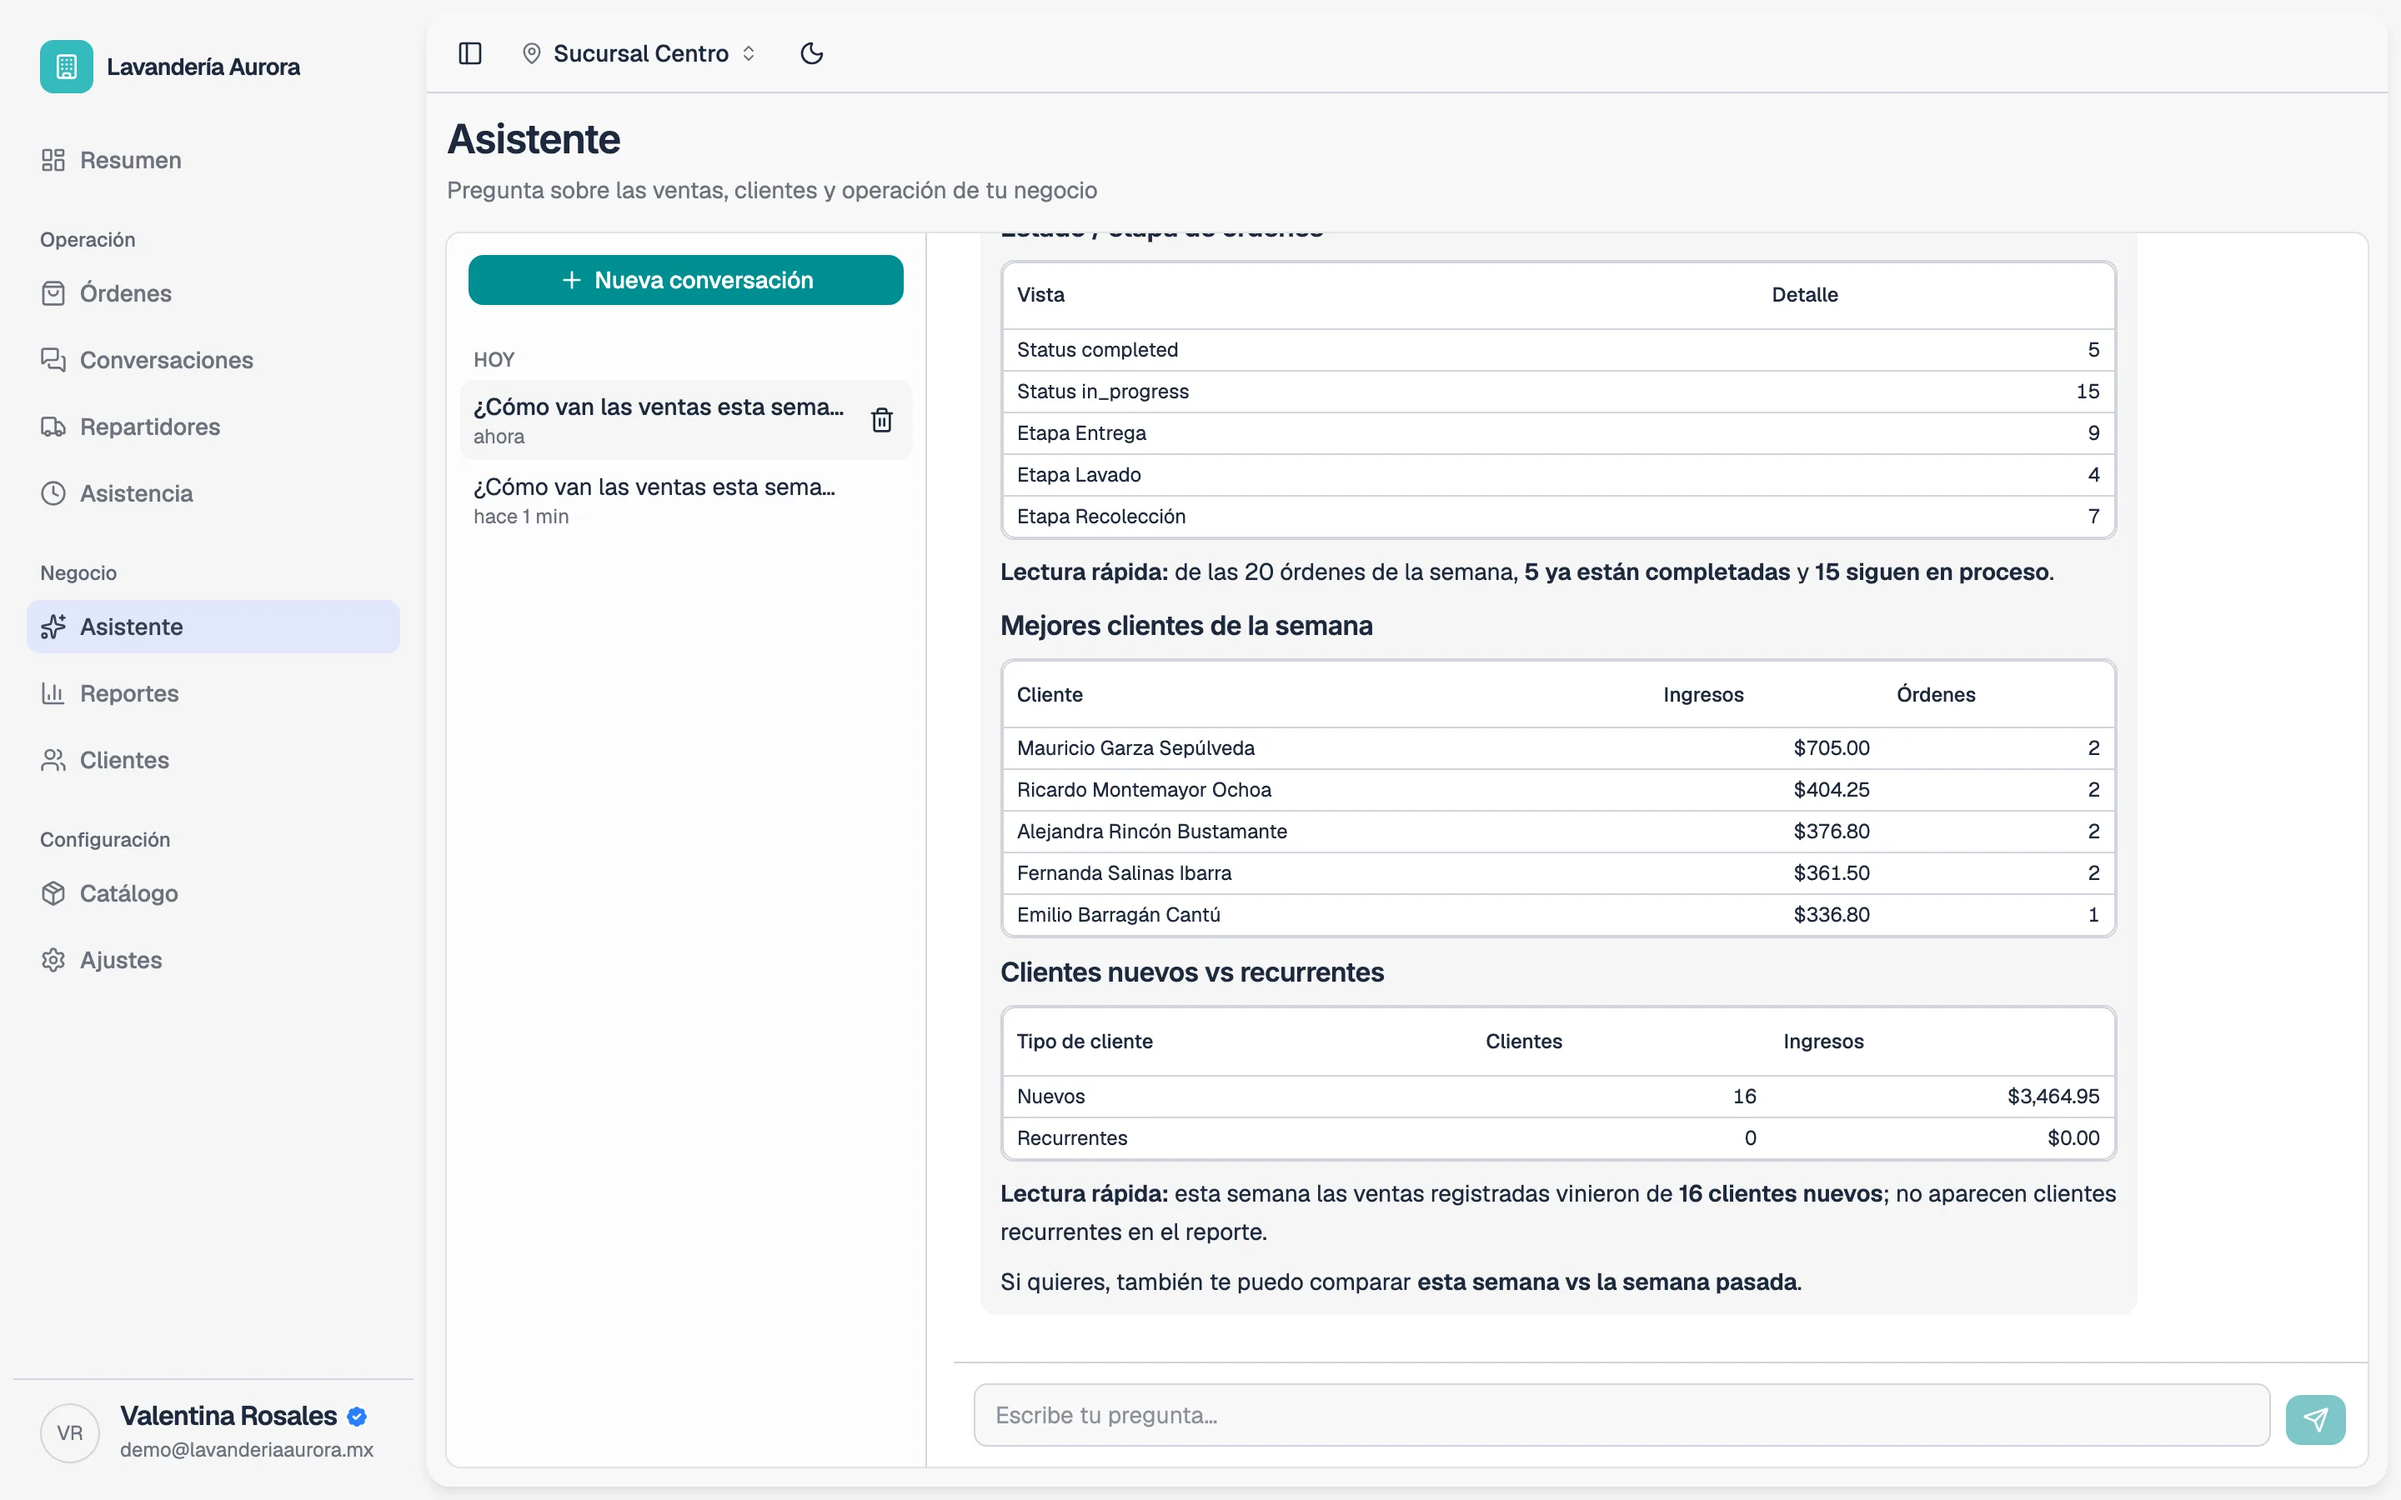
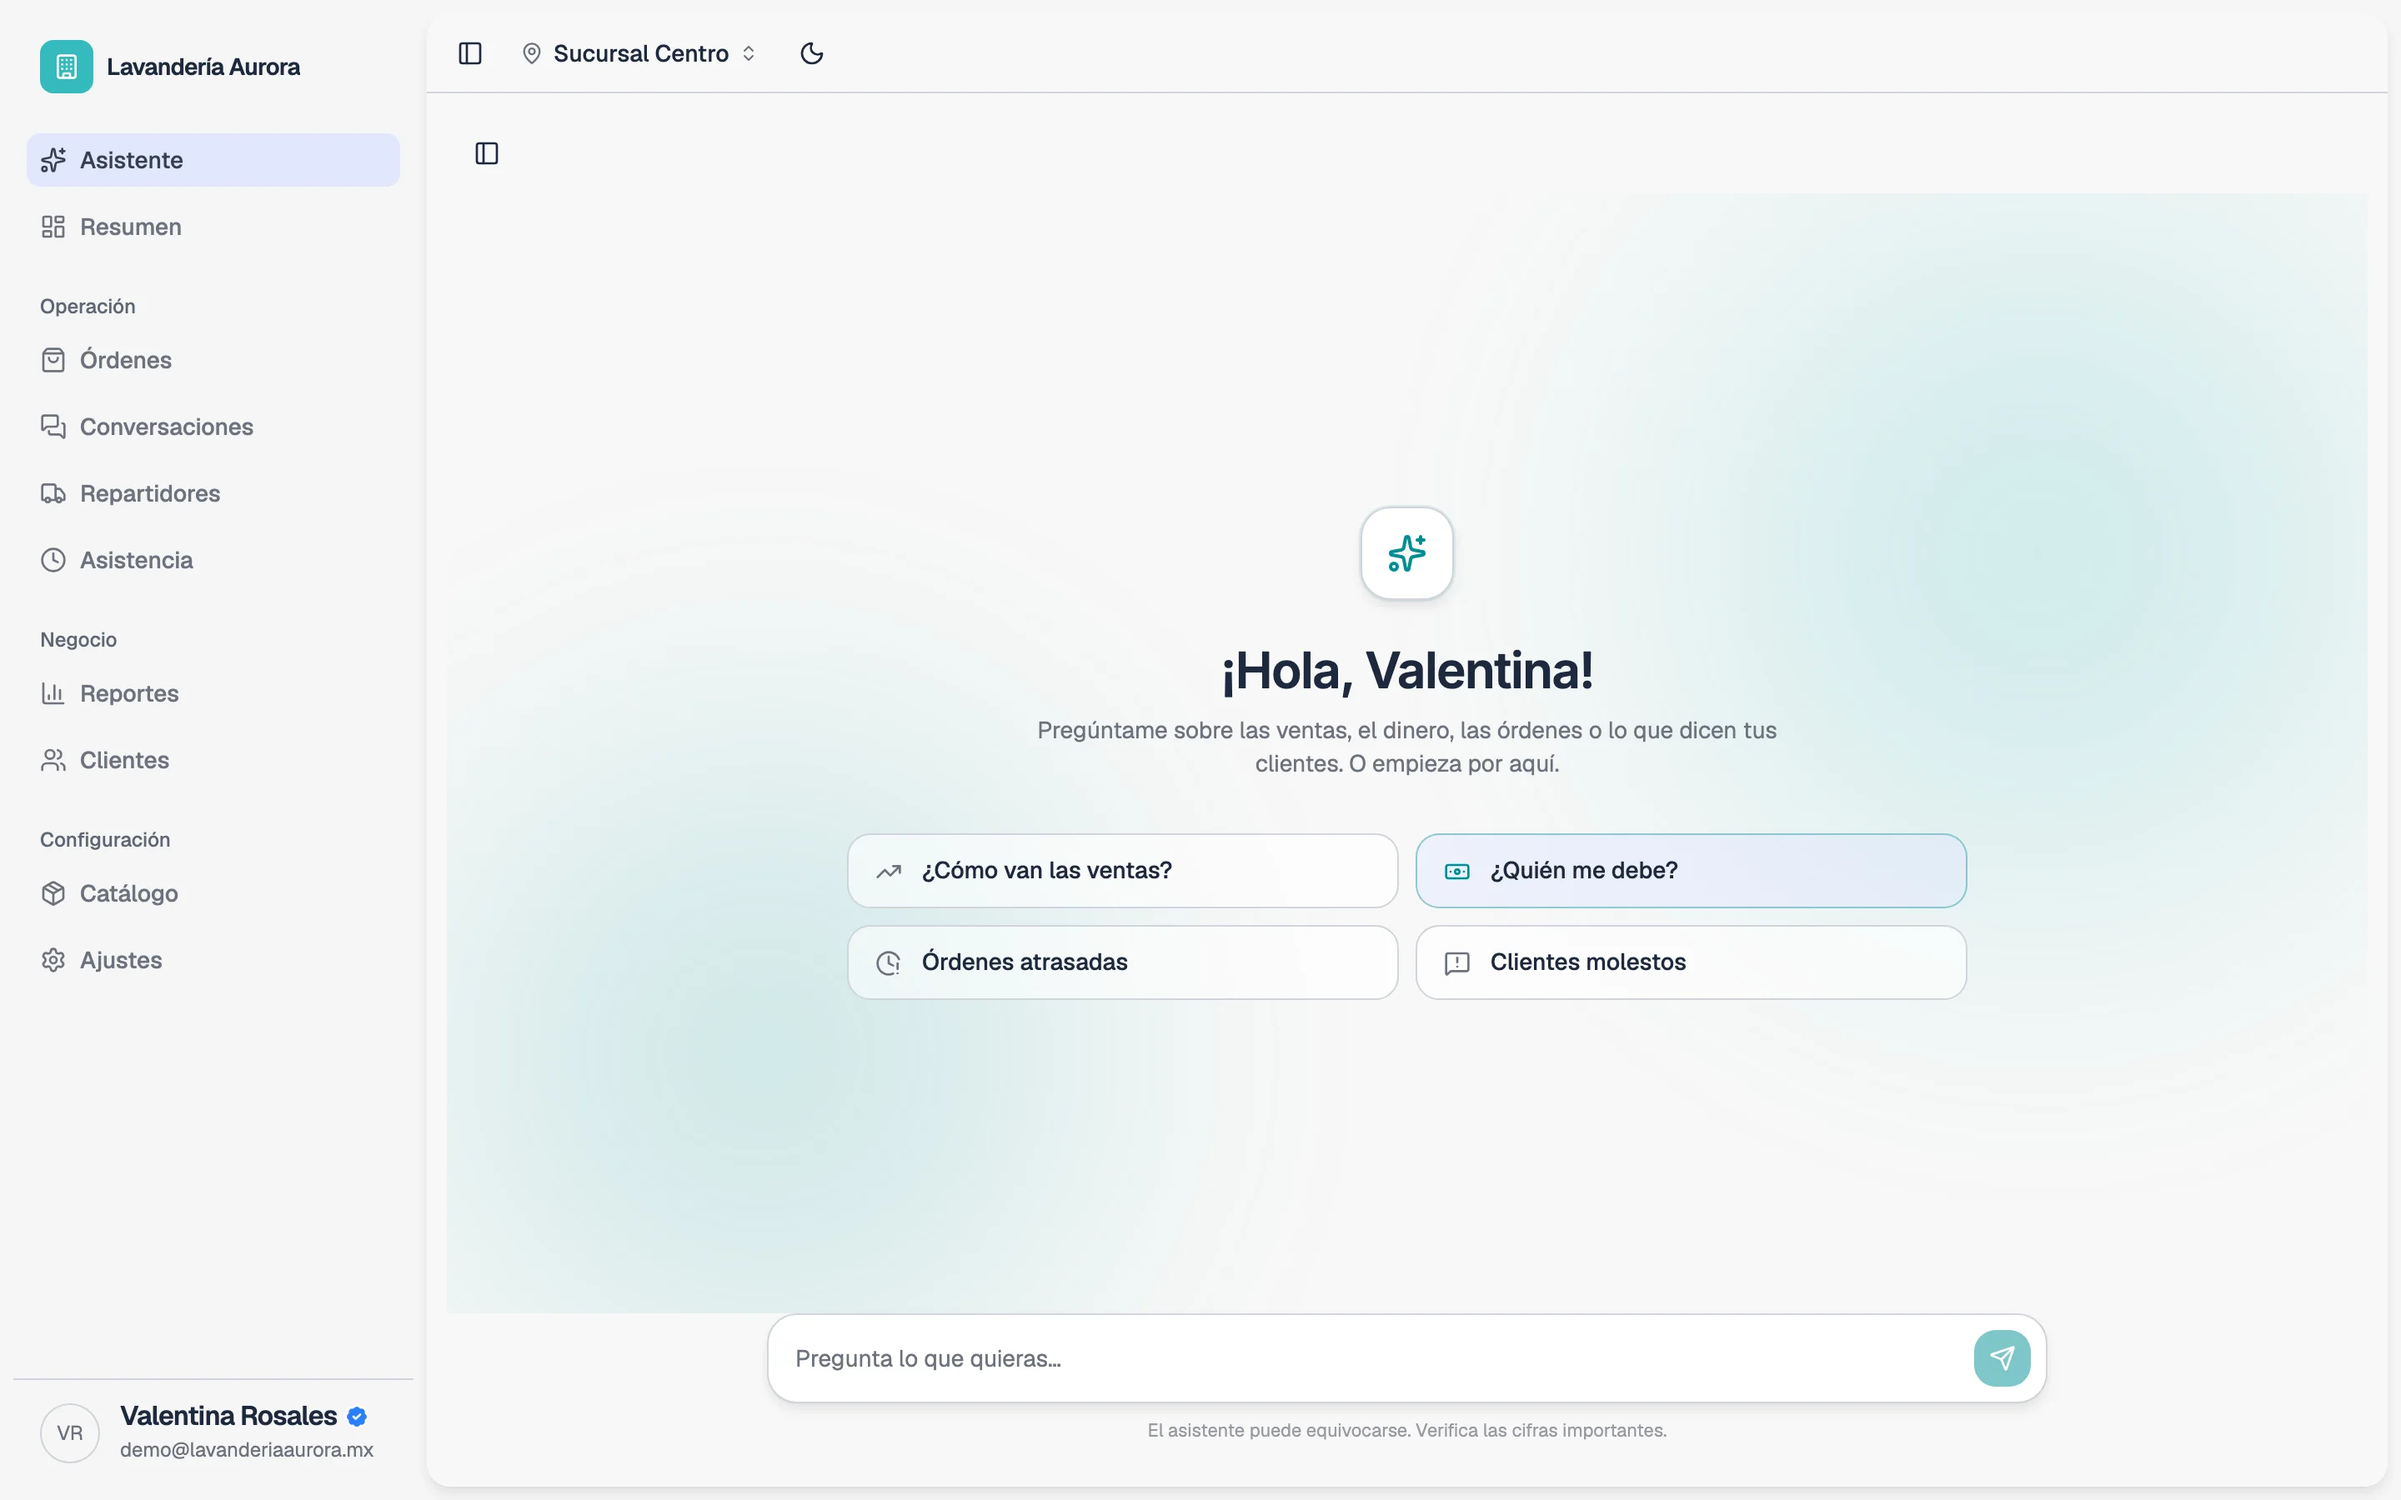
Use the redesigned assistant screen (#7)
The product's assistant was rebuilt (ciclo PR #92): it is now the admin
landing page, with a greeting hero, a soft gradient ground, four suggested
questions and an "el asistente puede equivocarse" notice.

Recaptured against the same synthetic demo org and rewrote alt/caption to
describe what is actually visible — the previous alt described the old
answer view's tables, which no longer exist in the image.

74KB, PII-verified.

diff --git a/src/i18n.jsx b/src/i18n.jsx
@@ -196,7 +196,7 @@ window.I18N = {
          with cinco clientes con nombre, ingresos y número de órdenes, una
          tabla de "Clientes nuevos vs recurrentes", otro resumen en
          negritas, y una oferta de comparar contra la semana pasada. */
-      alt: 'El asistente de Ciclo respondiendo una pregunta sobre las ventas de la semana: una tabla de estado y etapa de las órdenes, un resumen en negritas, una tabla de mejores clientes de la semana con nombre, ingresos y número de órdenes, una tabla de clientes nuevos y recurrentes, y otro resumen en negritas con una oferta de comparar contra la semana pasada.',
+      alt: 'El asistente de Ciclo abierto en el panel: un saludo a la dueña, la invitación «Pregúntame sobre las ventas, el dinero, las órdenes o lo que dicen tus clientes», cuatro preguntas sugeridas —«¿Cómo van las ventas?», «¿Quién me debe?», «Órdenes atrasadas» y «Clientes molestos»—, un campo para escribir y el aviso de que el asistente puede equivocarse.',
       caption: 'Asistente de una organización de demostración — datos de ejemplo.',
     },
 
